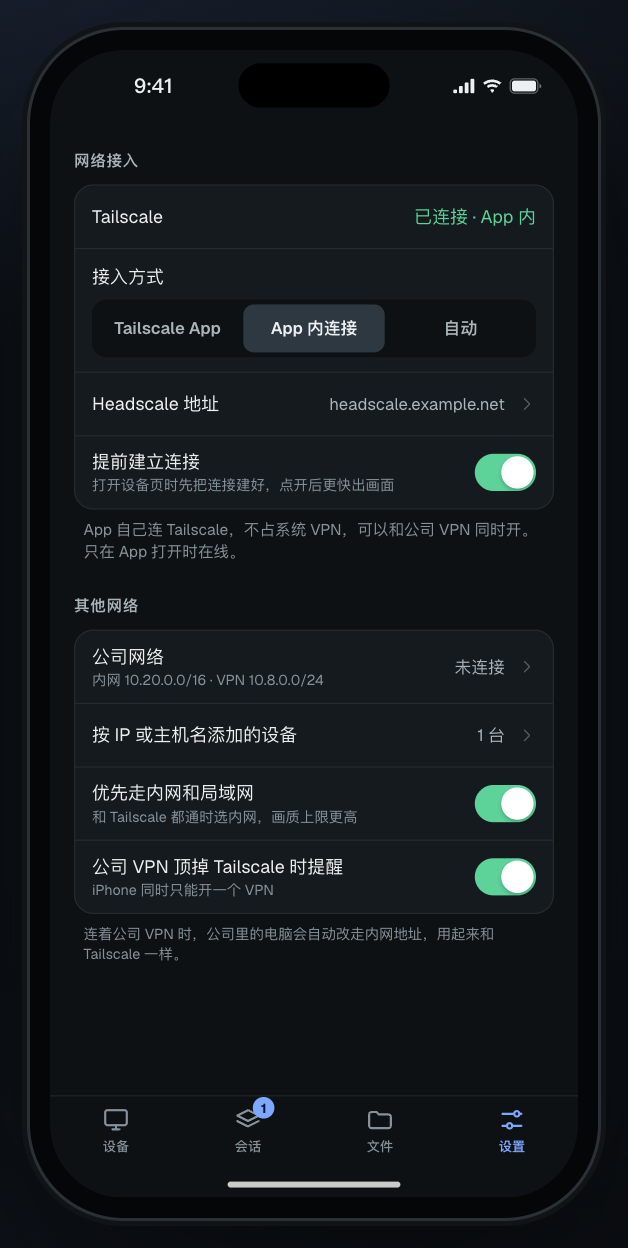
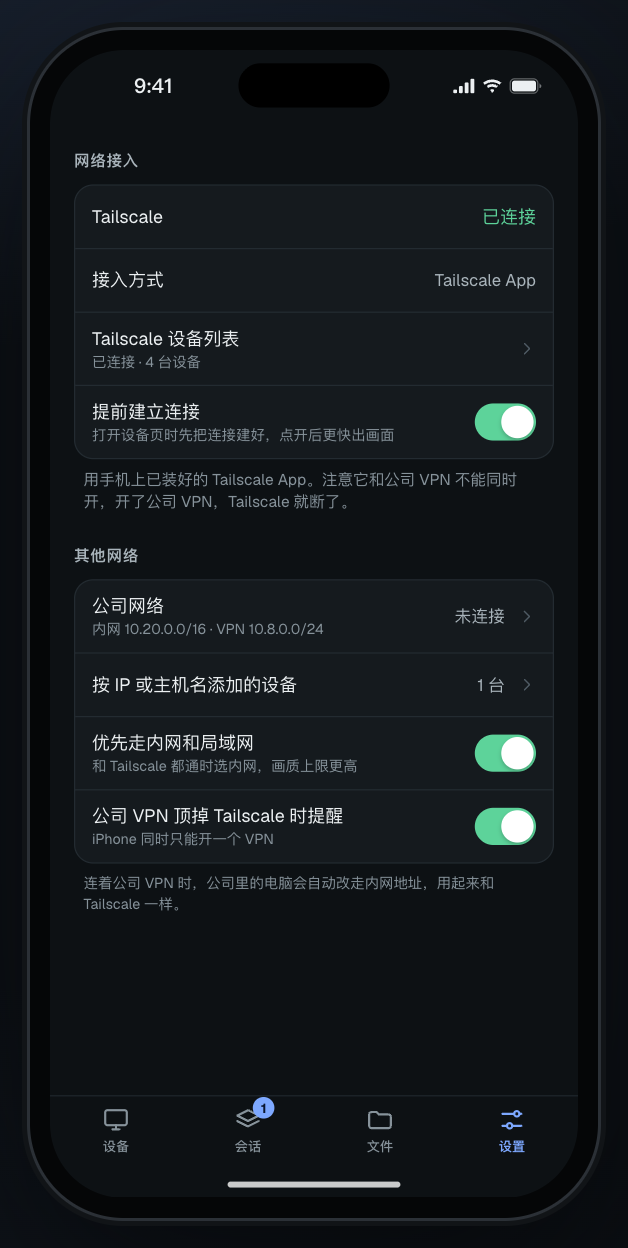
Match 1.0: no in-app tailnet; reach home over company VPN or Tailscale
- Home, support: drop in-app connection / Headscale / auto modes; explain
  company VPN, the Tailscale app and the Tailscale device list instead.
- Privacy: remove the Headscale control server and DERP relay rows and say
  1.0 has no in-app tailnet component.
- Replace the network settings screenshot with the 1.0 screen.

diff --git a/privacy.html b/privacy.html
@@ -53,8 +53,8 @@
         <p>你连接电脑时，画面、声音、键盘鼠标输入、剪贴板内容和收发的文件，都在你的设备和你的电脑之间直接传输：</p>
         <ul>
           <li><strong>局域网</strong>：设备和电脑在同一网络里时直接连接。</li>
-          <li><strong>tailnet（Tailscale / Headscale）</strong>：在外网时经你自己的 tailnet 连接，流量由 WireGuard 端到端加密。无法直连时，加密后的流量可能经过你的 tailnet 所配置的中继（DERP）服务器转发，中继看不到内容。这些中继由 Tailscale 或你的 Headscale 管理员提供，不由我们提供。</li>
-          <li><strong>连接方式与加密</strong>：使用 Remote Host 时，连接用 TLS 加密，并用设备密钥双向认证。使用 Windows 远程桌面（RDP）时，使用该协议的 TLS / 网络级身份验证。使用 Mac 屏幕共享（VNC）时，画面数据是否加密取决于 macOS 本身；在外网建议通过 tailnet 连接。</li>
+          <li><strong>公司 VPN 或 Tailscale</strong>：在外网时，经你手机上自己安装的公司 VPN 或 Tailscale App 连接。远屏本身不建立 VPN，也不含组网功能；这段网络由你的 VPN 或 Tailscale 负责。</li>
+          <li><strong>连接方式与加密</strong>：使用 Remote Host 时，连接用 TLS 加密，并用设备密钥双向认证。使用 Windows 远程桌面（RDP）时，使用该协议的 TLS / 网络级身份验证。使用 Mac 屏幕共享（VNC）时，画面数据是否加密取决于 macOS 本身；在外网建议通过 VPN 或 Tailscale 连接。</li>
         </ul>
 
         <h2>App 会发起的网络连接</h2>
@@ -64,14 +64,12 @@
             <thead><tr><th>连接对象</th><th>什么时候</th><th>发送的内容</th></tr></thead>
             <tbody>
               <tr><td>你添加的电脑（屏幕共享 / 远程桌面 / Remote Host / SSH）</td><td>你发起连接时</td><td>登录凭据、键盘鼠标输入、剪贴板、文件</td></tr>
-              <tr><td>你填写的 Headscale 服务器</td><td>使用「App 内连接」时</td><td>tailnet 登录与节点信息；登录在系统浏览器里完成</td></tr>
-              <tr><td>你的 tailnet 配置的中继服务器</td><td>使用 tailnet 且无法直连时</td><td>端到端加密的流量</td></tr>
               <tr><td>api.tailscale.com，或你的 Headscale API</td><td>仅当你主动填入 Tailscale API 令牌或 Headscale API 密钥，用来列出 tailnet 里的设备时</td><td>你填入的令牌；返回你 tailnet 的设备列表</td></tr>
               <tr><td>App Store、Tailscale 管理后台等网页</td><td>你点按对应链接时，在系统浏览器或 App Store 中打开</td><td>由浏览器或 App Store 处理</td></tr>
             </tbody>
           </table>
         </div>
-        <p>App 内置的 tailnet 组件已关闭 Tailscale 的日志上报功能。</p>
+        <p>1.0 版不含 App 内组网（Tailscale / Headscale 客户端组件），不会连接任何 tailnet 控制服务器或中继服务器。</p>
 
         <h2>保存在你设备上的数据</h2>
         <ul>
@@ -94,7 +92,7 @@
         <h2>第三方服务</h2>
         <ul>
           <li><strong>Tailscale App</strong>：如果你选择用手机上的 Tailscale App 接入，它是一个独立的 App，适用 Tailscale 自己的隐私政策。</li>
-          <li><strong>Headscale / Tailscale 账号</strong>：tailnet 的登录与管理由你选择的服务提供方负责，适用其各自的条款与隐私政策。</li>
+          <li><strong>Tailscale / Headscale 账号</strong>：tailnet 的登录与管理在 Tailscale App 和你选择的服务提供方那里完成，适用其各自的条款与隐私政策。</li>
           <li><strong>Apple</strong>：如果你在 iOS 中开启了“与 App 开发者共享”分析数据，Apple 可能会按其规则向开发者提供匿名的崩溃报告。这由 Apple 处理，可以在 <span class="path">设置 › 隐私与安全性 › 分析与改进</span> 中关闭。</li>
         </ul>
 
@@ -137,8 +135,8 @@
         <p>When you connect to a computer, the screen image, audio, keyboard and pointer input, clipboard contents, and transferred files travel directly between your device and your computer:</p>
         <ul>
           <li><strong>Local network</strong>: a direct connection when both are on the same network.</li>
-          <li><strong>Tailnet (Tailscale / Headscale)</strong>: away from home, traffic goes over your own tailnet and is end-to-end encrypted by WireGuard. When a direct path is not available, the encrypted traffic may be forwarded by relay (DERP) servers configured for your tailnet, which cannot read it. These relays are run by Tailscale or by your Headscale administrator, not by us.</li>
-          <li><strong>Protocols and encryption</strong>: with Remote Host, connections use TLS with mutual device-key authentication. With Windows Remote Desktop (RDP), the protocol's TLS / Network Level Authentication is used. With Mac Screen Sharing (VNC), whether screen data is encrypted depends on macOS; over the internet we recommend connecting through a tailnet.</li>
+          <li><strong>Company VPN or Tailscale</strong>: away from home, the connection goes through the company VPN or Tailscale app you installed on your phone yourself. The App does not set up a VPN and includes no networking component of its own; that part of the network is handled by your VPN or Tailscale.</li>
+          <li><strong>Protocols and encryption</strong>: with Remote Host, connections use TLS with mutual device-key authentication. With Windows Remote Desktop (RDP), the protocol's TLS / Network Level Authentication is used. With Mac Screen Sharing (VNC), whether screen data is encrypted depends on macOS; over the internet we recommend connecting through a VPN or Tailscale.</li>
         </ul>
 
         <h2>Network connections the App makes</h2>
@@ -148,14 +146,12 @@
             <thead><tr><th>Destination</th><th>When</th><th>What is sent</th></tr></thead>
             <tbody>
               <tr><td>Computers you add (Screen Sharing / Remote Desktop / Remote Host / SSH)</td><td>When you connect</td><td>Sign-in credentials, keyboard and pointer input, clipboard, files</td></tr>
-              <tr><td>The Headscale server you enter</td><td>When using the in-app connection</td><td>Tailnet sign-in and node information; sign-in happens in the system browser</td></tr>
-              <tr><td>Relay servers configured for your tailnet</td><td>When using a tailnet without a direct path</td><td>End-to-end encrypted traffic</td></tr>
               <tr><td>api.tailscale.com, or your Headscale API</td><td>Only if you enter a Tailscale API token or Headscale API key to list your tailnet devices</td><td>The token you entered; your tailnet's device list is returned</td></tr>
               <tr><td>App Store, Tailscale admin console and similar pages</td><td>When you tap such a link; opened in the system browser or App Store</td><td>Handled by the browser or the App Store</td></tr>
             </tbody>
           </table>
         </div>
-        <p>Tailscale log uploading is disabled in the App's built-in tailnet component.</p>
+        <p>Version 1.0 does not include the in-app tailnet (Tailscale / Headscale client component) and never connects to a tailnet control server or relay server.</p>
 
         <h2>Data stored on your device</h2>
         <ul>
@@ -178,7 +174,7 @@
         <h2>Third-party services</h2>
         <ul>
           <li><strong>Tailscale app</strong>: if you choose to connect through the Tailscale app on your phone, it is a separate app governed by Tailscale's own privacy policy.</li>
-          <li><strong>Headscale / Tailscale accounts</strong>: tailnet sign-in and administration are handled by the provider you choose, under its own terms and privacy policy.</li>
+          <li><strong>Tailscale / Headscale accounts</strong>: tailnet sign-in and administration happen in the Tailscale app and with the provider you choose, under its own terms and privacy policy.</li>
           <li><strong>Apple</strong>: if you have turned on “Share With App Developers” in iOS, Apple may provide anonymous crash reports to the developer under Apple's rules. You can turn this off in <span class="path">Settings › Privacy &amp; Security › Analytics &amp; Improvements</span>.</li>
         </ul>
 

diff --git a/index.html b/index.html
@@ -4,7 +4,7 @@
   <meta charset="utf-8">
   <meta name="viewport" content="width=device-width, initial-scale=1">
   <title>远屏 Remote Screen</title>
-  <meta name="description" content="在 iPad 和 iPhone 上远程控制你自己的 Mac 和 Windows 电脑。用系统自带的屏幕共享和远程桌面，电脑上不用装软件；内置 tailnet，外网也能连回来。">
+  <meta name="description" content="在 iPad 和 iPhone 上远程控制你自己的 Mac 和 Windows 电脑。用系统自带的屏幕共享和远程桌面，电脑上不用装软件；连上公司 VPN 或 Tailscale，在外面也能连回来。">
   <meta name="theme-color" content="#0b0d10" media="(prefers-color-scheme: dark)">
   <meta name="theme-color" content="#fbfbfc" media="(prefers-color-scheme: light)">
   <meta property="og:title" content="远屏 Remote Screen">
@@ -88,17 +88,17 @@
       <div class="wrap">
         <div class="split">
           <div>
-            <p class="eyebrow">Tailnet</p>
+            <p class="eyebrow">VPN · Tailscale</p>
             <h2>在外面，也能连回来。</h2>
-            <p class="lead">远屏内置 Tailscale / Headscale 组网。电脑和 iPad 加入同一个 tailnet，就能像在同一个局域网里一样连接，不用在路由器上做端口转发。</p>
+            <p class="lead">连上公司 VPN 或 Tailscale，就能连回办公室和家里的电脑。远屏本身不建立 VPN，用的是你手机上已经装好的 VPN 或 Tailscale App，不用在路由器上做端口转发。</p>
             <ul class="list">
-              <li><b>手机上的 Tailscale</b> — 已经在用 Tailscale App，直接沿用。</li>
-              <li><b>App 内连接</b> — 填你的 Headscale 地址，在浏览器里登录，不必另装 VPN App。</li>
-              <li><b>自动</b> — Tailscale App 连着时用它；它断了，就自动改用 App 内连接。</li>
+              <li><b>公司 VPN</b> — 连着时，公司里的电脑会自动改走内网地址。</li>
+              <li><b>Tailscale App</b> — 手机上装好 Tailscale 并登录，tailnet 里的电脑直接连。</li>
+              <li><b>Tailscale 设备列表</b> — 填上只读的 API 令牌，tailnet 里的电脑自动列出来。</li>
             </ul>
           </div>
           <figure class="shot shot-phone">
-            <img src="assets/screens/iphone-1.png" width="628" height="1248" alt="iPhone 上的网络接入设置：Tailscale 已通过 App 内连接接入">
+            <img src="assets/screens/iphone-1.png" width="628" height="1248" alt="iPhone 上的网络接入设置：经手机上的 Tailscale App 接入，已读取 Tailscale 设备列表">
             <figcaption>界面示意</figcaption>
           </figure>
         </div>
@@ -236,12 +236,12 @@
           <details>
             <summary>不在同一个网络时，怎么连？</summary>
             <div class="answer">
-              <p>用 tailnet。让电脑和 iPad / iPhone 加入同一个 Tailscale 或 Headscale 网络：</p>
+              <p>连上公司 VPN 或 Tailscale 就行。远屏本身不建立 VPN，用的是你手机上已经装好的：</p>
               <ol>
-                <li>在电脑上安装 Tailscale 客户端并登录你的 tailnet。</li>
-                <li>在远屏里选择接入方式：用手机上的 Tailscale App，或者用「App 内连接」填你的 Headscale 地址并在浏览器里登录。</li>
-                <li>回到电脑列表，tailnet 里的电脑会出现，点一下就能连。</li>
+                <li><b>公司 VPN</b>：iPad / iPhone 连上公司 VPN，就能按内网地址连办公室的电脑。</li>
+                <li><b>Tailscale</b>：在电脑和 iPad / iPhone 上都装好 Tailscale App，登录同一个 tailnet，回到电脑列表点一下就能连。</li>
               </ol>
+              <p>iPhone / iPad 同时只能开一个 VPN：开了公司 VPN，Tailscale 就会断开。</p>
               <p>整个过程不用在路由器上做端口转发，也不用把电脑暴露在公网上。</p>
             </div>
           </details>

diff --git a/support.html b/support.html
@@ -40,7 +40,7 @@
       <ul>
         <li>iPad / iPhone 的型号和 iPadOS / iOS 版本，以及远屏的版本号。</li>
         <li>电脑的系统和版本，比如 macOS 15 或 Windows 11 专业版。</li>
-        <li>连接方式：屏幕共享、远程桌面、Remote Host 还是 SSH；在同一网络里，还是经 tailnet。</li>
+        <li>连接方式：屏幕共享、远程桌面、Remote Host 还是 SSH；在同一网络里，还是经公司 VPN 或 Tailscale。</li>
         <li>出了什么问题、怎么复现，有截图更好。</li>
         <li>可以的话附上日志：在 App 的诊断页面导出 zip，导出时可以打开「地址打码」。日志只在你自己导出时才离开设备。</li>
       </ul>
@@ -70,18 +70,12 @@
         <details>
           <summary>不在家或不在公司，怎么连？</summary>
           <div class="answer">
-            <p>让电脑和 iPad / iPhone 加入同一个 tailnet：</p>
-            <ol>
-              <li>在电脑上安装 Tailscale 客户端，登录你的 Tailscale 或 Headscale 网络。</li>
-              <li>在远屏里选择接入方式：
-                <ul>
-                  <li><b>手机上的 Tailscale</b>：已安装并连上 Tailscale App 时使用。</li>
-                  <li><b>App 内连接</b>：填你的 Headscale 地址，在浏览器里用 Headscale 设好的方式登录。</li>
-                  <li><b>自动</b>：Tailscale App 连着时用它，断了就改用 App 内连接。</li>
-                </ul>
-              </li>
-              <li>回到电脑列表，点一下 tailnet 里的电脑即可连接。</li>
-            </ol>
+            <p>远屏本身不建立 VPN，在外面连回电脑要用你手机上已经装好的公司 VPN 或 Tailscale App：</p>
+            <ul>
+              <li><b>公司 VPN</b>：iPad / iPhone 连上公司 VPN，就能按内网地址连办公室的电脑。可以在「设置 › 其他网络」里登记公司内网网段，连着 VPN 时远屏会优先走内网地址。</li>
+              <li><b>Tailscale</b>：在电脑和 iPad / iPhone 上都装好 Tailscale App，登录同一个 tailnet。回到电脑列表，点一下 tailnet 里的电脑即可连接。想让 tailnet 里的电脑自动列出来，可以在「设置 › 网络接入 › Tailscale 设备列表」里填一个只读的 API 令牌。</li>
+            </ul>
+            <p>iPhone / iPad 同时只能开一个 VPN：开了公司 VPN，Tailscale 就会断开。</p>
             <p>不需要端口转发，也不用把电脑暴露在公网上。</p>
           </div>
         </details>
